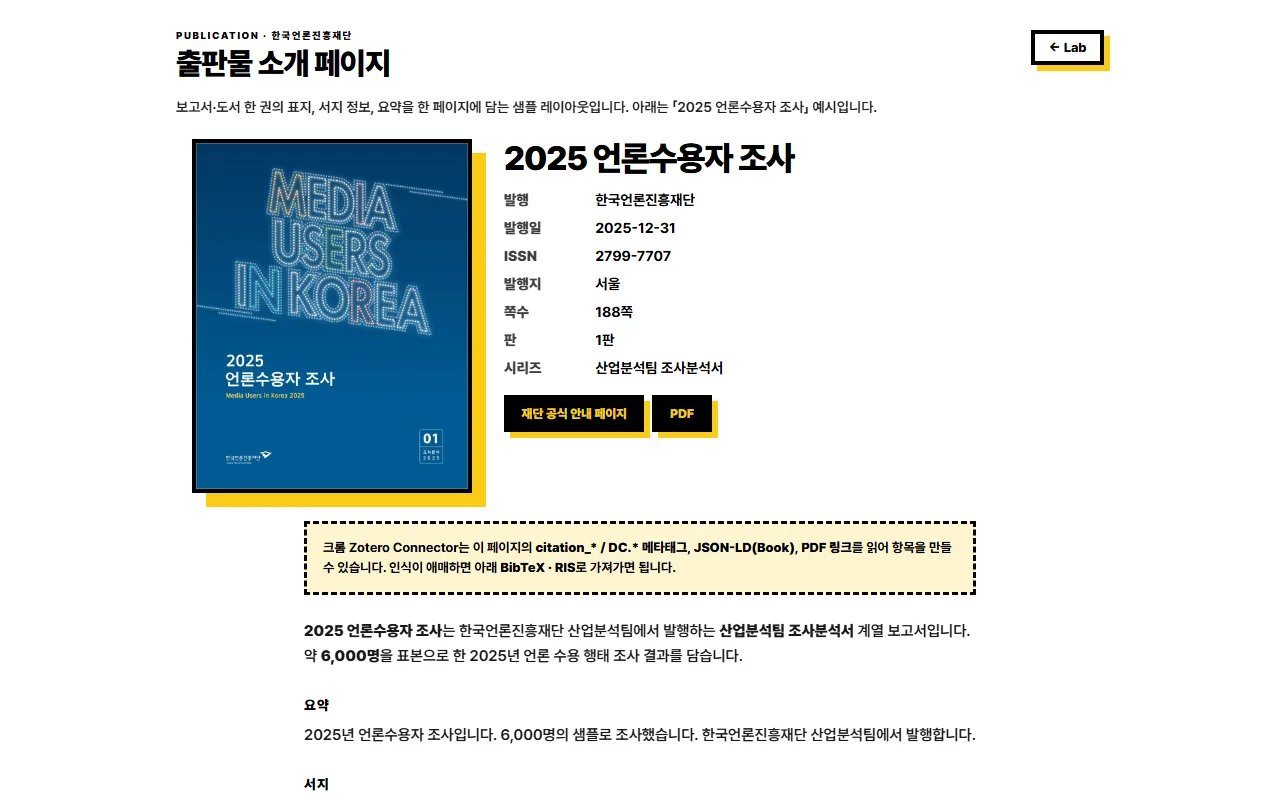
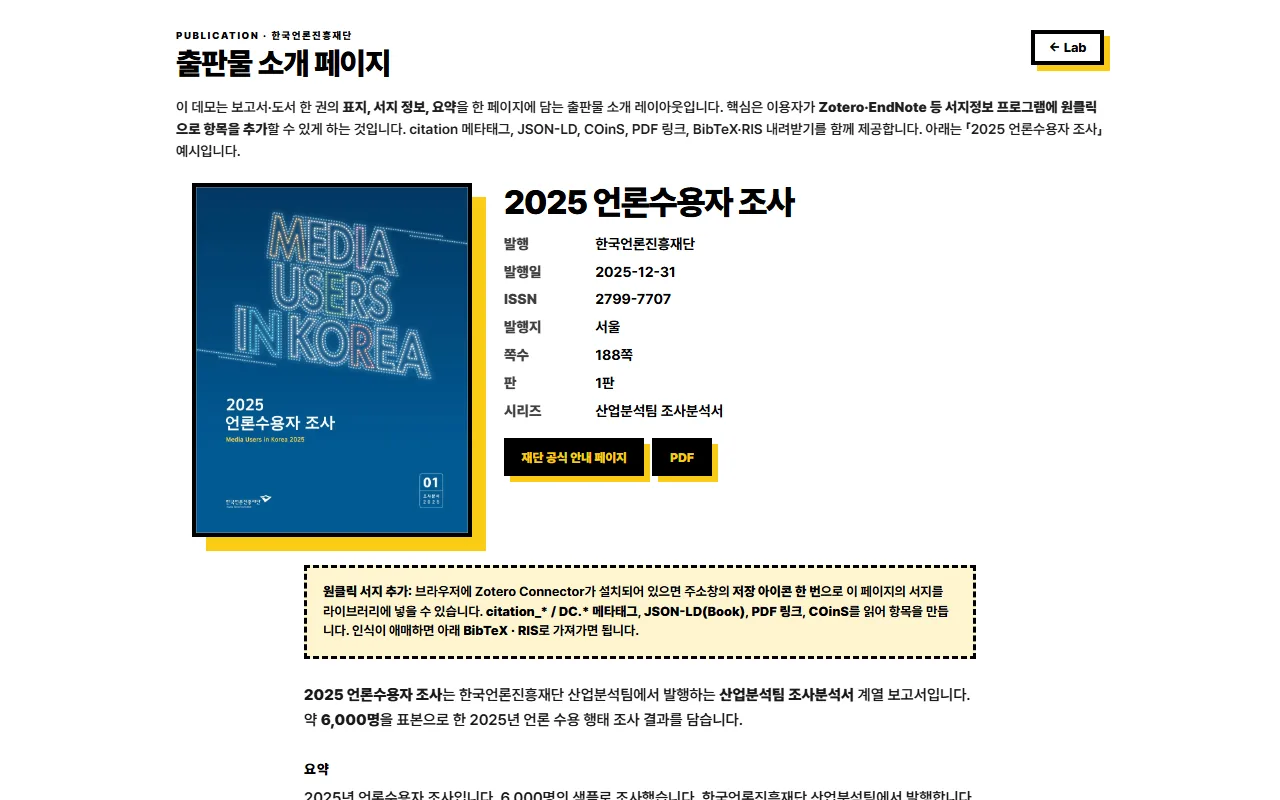
Highlight one-click citation import on publication demo and gallery.

Changed region(s): [[0.125, 0.125, 0.875, 1.0]]

diff --git a/demos/publication/index.html b/demos/publication/index.html
@@ -266,7 +266,12 @@
       </div>
       <a class="ldh-back" href="../../index.html">← Lab</a>
     </div>
-    <p class="ldh-lead">보고서·도서 한 권의 표지, 서지 정보, 요약을 한 페이지에 담는 샘플 레이아웃입니다. 아래는 「2025 언론수용자 조사」 예시입니다.</p>
+    <p class="ldh-lead">
+      이 데모는 보고서·도서 한 권의 <strong>표지, 서지 정보, 요약</strong>을 한 페이지에 담는 출판물 소개 레이아웃입니다.
+      핵심은 이용자가 <strong>Zotero·EndNote 등 서지정보 프로그램에 원클릭으로 항목을 추가</strong>할 수 있게 하는 것입니다.
+      citation 메타태그, JSON-LD, COinS, PDF 링크, BibTeX·RIS 내려받기를 함께 제공합니다.
+      아래는 「2025 언론수용자 조사」 예시입니다.
+    </p>
 
     <header class="pub-hero">
       <div class="pub-cover-wrap">
@@ -291,7 +296,9 @@
     </header>
 
     <p class="pub-zotero-note">
-      크롬 Zotero Connector는 이 페이지의 <strong>citation_* / DC.* 메타태그</strong>, <strong>JSON-LD(Book)</strong>, <strong>PDF 링크</strong>를 읽어 항목을 만들 수 있습니다. 인식이 애매하면 아래 <strong>BibTeX · RIS</strong>로 가져가면 됩니다.
+      <strong>원클릭 서지 추가:</strong> 브라우저에 Zotero Connector가 설치되어 있으면 주소창의 <strong>저장 아이콘 한 번</strong>으로 이 페이지의 서지를 라이브러리에 넣을 수 있습니다.
+      <strong>citation_* / DC.* 메타태그</strong>, <strong>JSON-LD(Book)</strong>, <strong>PDF 링크</strong>, <strong>COinS</strong>를 읽어 항목을 만듭니다.
+      인식이 애매하면 아래 <strong>BibTeX · RIS</strong>로 가져가면 됩니다.
     </p>
 
     <article class="pub-body">

diff --git a/index.html b/index.html
@@ -463,7 +463,7 @@
           <a
             class="lab-card"
             href="demos/publication/"
-            data-keywords="출판물 소개 레이아웃 책 보고서 표지 인용"
+            data-keywords="출판물 소개 레이아웃 책 보고서 표지 인용 Zotero 서지정보 BibTeX RIS 원클릭"
           >
             <div class="lab-card-thumb">
               <div class="lab-card-thumb-frame">
@@ -475,13 +475,15 @@
                 <span class="lab-tag">소개</span>
                 <span class="lab-tag">출판물</span>
                 <span class="lab-tag">레이아웃</span>
-                <span class="lab-tag">인용</span>
+                <span class="lab-tag">서지정보</span>
+                <span class="lab-tag">Zotero</span>
+                <span class="lab-tag">원클릭</span>
               </div>
               <span class="lab-go" aria-hidden="true">↗</span>
             </div>
             <div class="lab-card-body">
               <h3 class="lab-card-title">출판물 소개 페이지</h3>
-              <p class="lab-card-desc">책·보고서 한 권을 소개하는 샘플 레이아웃입니다. 표지, 요약, 인용 정보를 한 페이지에 담은 예시입니다.</p>
+              <p class="lab-card-desc">간행물 소개 페이지에 표지·요약·서지를 담고, Zotero 등 서지정보 프로그램에 원클릭으로 항목을 추가할 수 있게 한 데모입니다.</p>
             </div>
           </a>
 